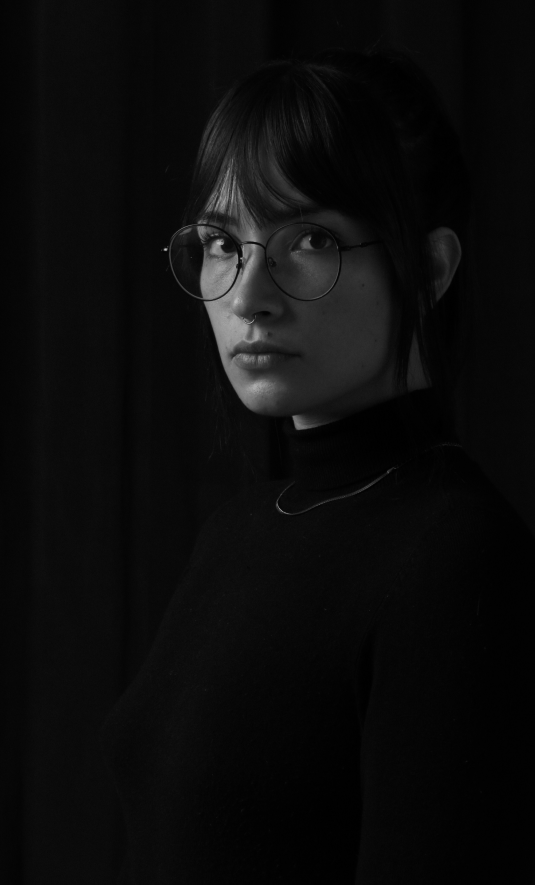
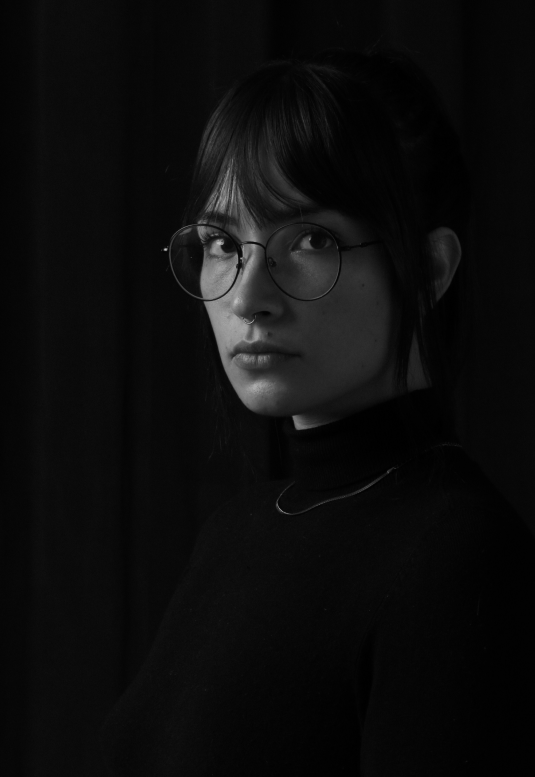
our_vision

diff --git a/components/about/ourVission.jsx b/components/about/ourVission.jsx
@@ -1,46 +1,47 @@
 import React from 'react'
 import Image from 'next/image'
-import ImageGirl from "@/public/outVission/girl_behind_trees.png"
+import ImageGirl from "@/public/outVission/girl_behind_trees2.png"
 import Community from "@/public/outVission/community_one.png"
 import SecondPerson from "@/public/outVission/Second_image.png"
-
-const featuresData = [
-  {
-    id: 1,
-    imageSrc: Community1,
-    description:
-      'Present the job matching services that present the job matching services that.',
-  },
-  {
-    id: 2,
-    imageSrc: Community2,
-    description:
-      'Present the job matching services that present the job matching services that.',
-  },
-];
-
 function ourVission() {
   return (
-    <div className='grid grid-cols-7 gap-1 mr-20 mt-20 mb-5'>
+    <div>
+    <div className='grid md:grid-cols-7 grid-cols-1 mr-20 mt-20 mb-5'>
       <div className='col-span-5'>
-        <h1>our vission</h1>
-        <div className='grid grid-rows-2 gap-1'>
-          <div  className='grid grid-col-2 gap-3'>
-            <div></div>
-            <div></div>
+      <h1 className='md:text-7xl text-4xl md:font-bold font-medium'>
+        <span className='bg-orange-500 pl-20 text-white'>our </span>vision
+      </h1>
+        <div className='grid md:grid-cols-7 grid-cols-1 pl-24 mb-4 mt-7'>
+          <div className='col-span-4'>
+          <div className='bg-black px-5 pb-3 pt-5 m-5 '>
+              <div className='w-28 h-28 bg-white mx-auto my-auto rounded-full'>
+              <Image src={Community} alt='community' className='mx-auto my-auto pt-4'/>
+              </div>
+              <p className='text-gray-400 text-center pt-4'>Present the job matching services that present the job matching services that.</p>
           </div>
-          <div>
-            <Image src={SecondPerson} alt='VissionMen'/>
+          </div>
+          <div className='col-span-3'>
+          <div className='bg-black px-5 pb-3 pt-5 m-5 '>
+              <div className='w-28 h-28 bg-white mx-auto my-auto rounded-full'>
+              <Image src={Community} alt='community' className='mx-auto my-auto pt-4'/>
+              </div>
+              <p className='text-gray-400 text-center pt-4'>Present the job matching services that present the job matching services that.</p>
+          </div>
           </div>
 
+        </div>
+
+        <div>
+          <Image src={SecondPerson} alt='VisionPerson' className='h-72 w-full  pl-20 md:my-0 '/>
         </div>
 
       </div>
 
       <div className='col-span-2'>
-        <Image src={ImageGirl} alt='VissionGirlImg' className='h-full w-full'/>
+        <Image src={ImageGirl} alt='VissionGirlImage' height={100} className='md:w-96 w-64 md:h-fit h-96 md md:ml-0 ml-24 my-4'/>
       </div>
 
+    </div>
     </div>
   )
 }

diff --git a/app/(root)/page.js b/app/(root)/page.js
@@ -20,6 +20,9 @@ const Hero = () => {
       <SecondSec />
       <ThirdSec />
       <Benefit />
+      <div className='flex justify-center py-10'>
+        <OurTeam />
+      </div>
       <div className='flex justify-center pt-28 bg-black'>
         <LogoSection />
       </div>
@@ -29,14 +32,13 @@ const Hero = () => {
         <NewsLetter />
       </div>
       <div className='flex justify-center'>
-        <Transition />
-      </div>
-      <div className='flex justify-center py-10'>
-        <OurTeam />
-      </div>
-      <div className='flex justify-center'>
         <ContactUs />
       </div>
+      <div className='flex justify-center'>
+        <Transition />
+      </div>
+      
+      
     </div>
   );
 };

diff --git a/components/home/thirdSec.jsx b/components/home/thirdSec.jsx
@@ -37,7 +37,7 @@ const featuresData = [
 function Feature3() {
   return (
     <div>
-      <div className='grid grid-cols-1 md:grid-cols-2 gap-0 md:m-20'>
+      <div className='grid grid-cols-1 md:grid-cols-2 gap-0 md:my-20'>
         <div className='text-white grid md:grid-cols-2 grid-cols-1 mx-4'>
           {featuresData.map((feature) => (
             <div key={feature.id}>
